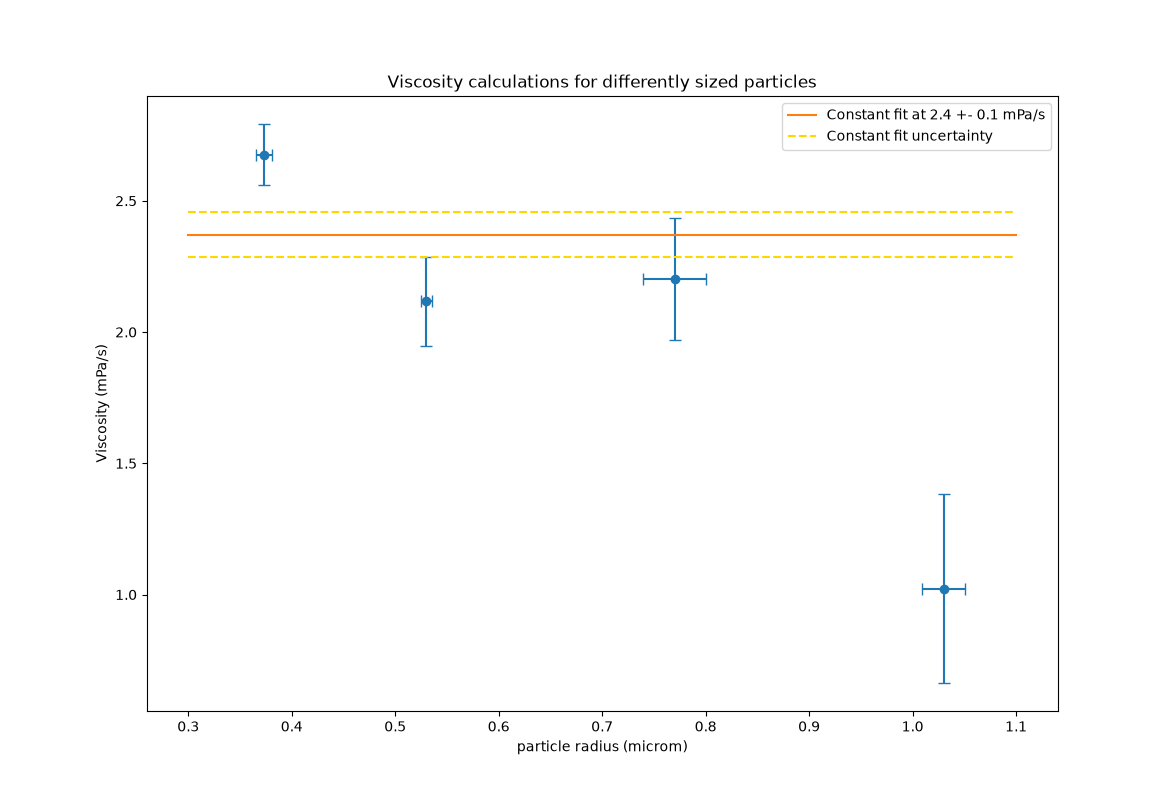
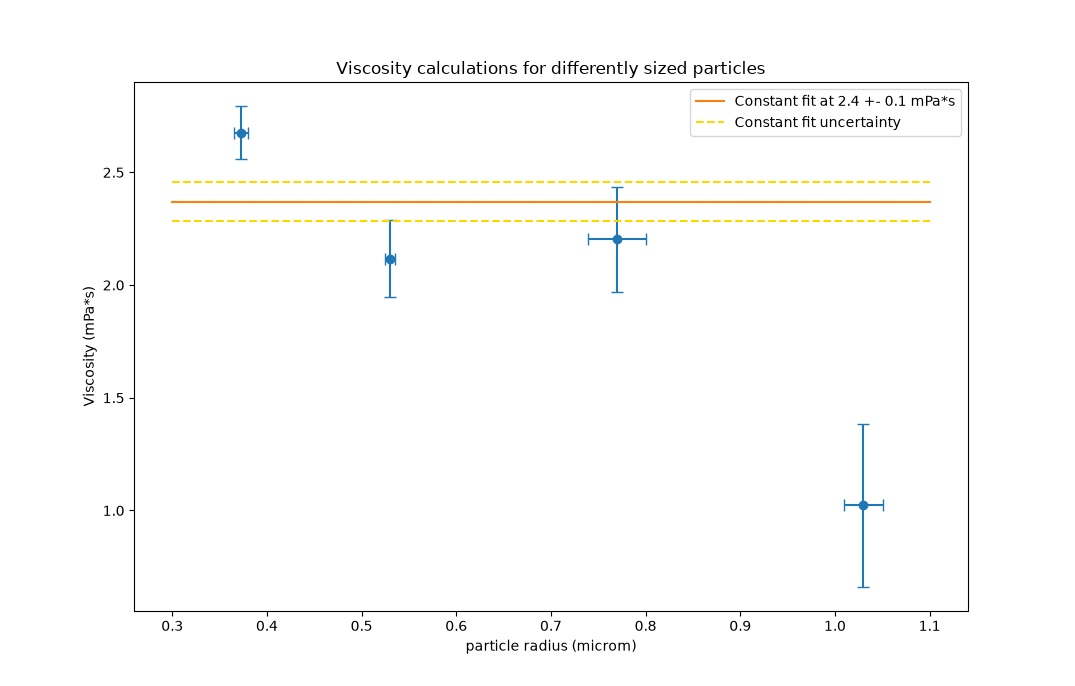
fixed units

diff --git a/src/main.py b/src/main.py
@@ -133,7 +133,7 @@ def calculateAllViscosities(csv_data: list[list[str | int]]) -> None:
             else:
                 viscosities[i], viscosity_uncertainties[i] = viscosityFromTrajectories(trajectories, int(frames_n), int(fps), float(particle_diameter), float(diameter_uncertainty), float(temperature), float(temperature_uncertainty), float(mmp), float(mmp_uncertainty))
 
-        print(f'{(i+1)}/{data_length} The viscosity of video {data[0]} is {viscosities[i]} +- {viscosity_uncertainties[i]} mPa/s')
+        print(f'{(i+1)}/{data_length} The viscosity of video {data[0]} is {viscosities[i]} +- {viscosity_uncertainties[i]} mPa*s')
 
     unique_radii = np.unique(radii[radii > 0])
     mean_viscosities = []
@@ -167,7 +167,7 @@ def calculateAllViscosities(csv_data: list[list[str | int]]) -> None:
         mean_viscosities.append(mean_vis)
         mean_uncertainties.append(mean_unc)
         
-        print(f"Radius {r}: Mean Viscosity = {mean_vis:.4f} +- {mean_unc:.4f} mPa/s (N={N}, Chi2_nu={reduced_chi_sq:.2f})")
+        print(f"Radius {r}: Mean Viscosity = {mean_vis:.4f} +- {mean_unc:.4f} mPa*s (N={N}, Chi2_nu={reduced_chi_sq:.2f})")
 
     unique_radii = np.array(unique_radii)
     mean_viscosities = np.array(mean_viscosities)
@@ -182,18 +182,18 @@ def calculateAllViscosities(csv_data: list[list[str | int]]) -> None:
     plt.errorbar(radii, viscosities, yerr=viscosity_uncertainties, xerr=[ur * PARTICLE_DIAMETER_RELATIVE_UNCERTAINTIES[int(8 * ur)] for ur in radii], marker="o", linestyle='', capsize=4)
     plt.title("Viscosity calculations for differently sized particles")
     plt.xlabel("particle radius (microm)")
-    plt.ylabel("Viscosity (mPa/s)")
+    plt.ylabel("Viscosity (mPa*s)")
     plt.show()
 
     plt.figure()
     plt.errorbar(unique_radii, mean_viscosities, yerr=mean_uncertainties, xerr=[ur * PARTICLE_DIAMETER_RELATIVE_UNCERTAINTIES[int(8 * ur)] for ur in unique_radii], marker="o", linestyle='', capsize=4)
     fit_result_uncertainty: float = (np.sqrt(np.diag(pcov))[0])
-    plt.plot([0.3, 1.1], [popt[0], popt[0]], label=f"Constant fit at {popt[0]:.1f} +- {fit_result_uncertainty:.1f} mPa/s")
+    plt.plot([0.3, 1.1], [popt[0], popt[0]], label=f"Constant fit at {popt[0]:.1f} +- {fit_result_uncertainty:.1f} mPa*s")
     plt.plot([0.3, 1.1], [popt[0] + fit_result_uncertainty, popt[0] + fit_result_uncertainty], linestyle="--", color='gold', label="Constant fit uncertainty")
     plt.plot([0.3, 1.1], [popt[0] - fit_result_uncertainty, popt[0] - fit_result_uncertainty], linestyle="--", color='gold')
     plt.title("Viscosity calculations for differently sized particles")
     plt.xlabel("particle radius (microm)")
-    plt.ylabel("Viscosity (mPa/s)")
+    plt.ylabel("Viscosity (mPa*s)")
     plt.legend()
     plt.show()
 
